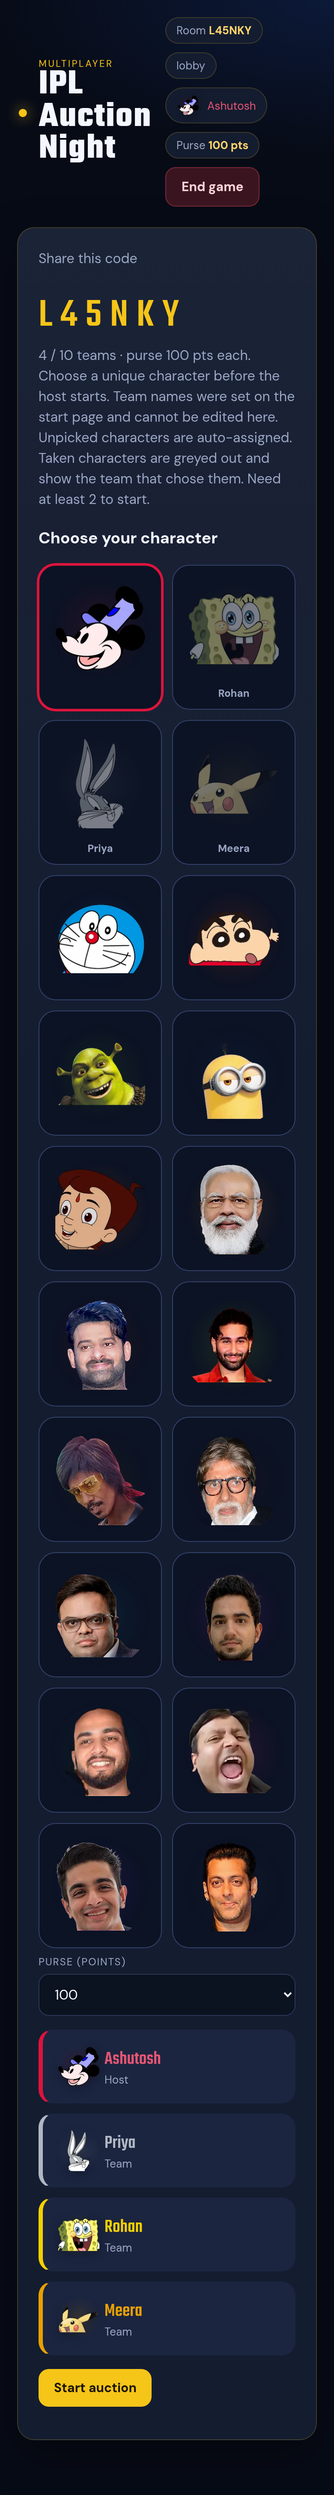
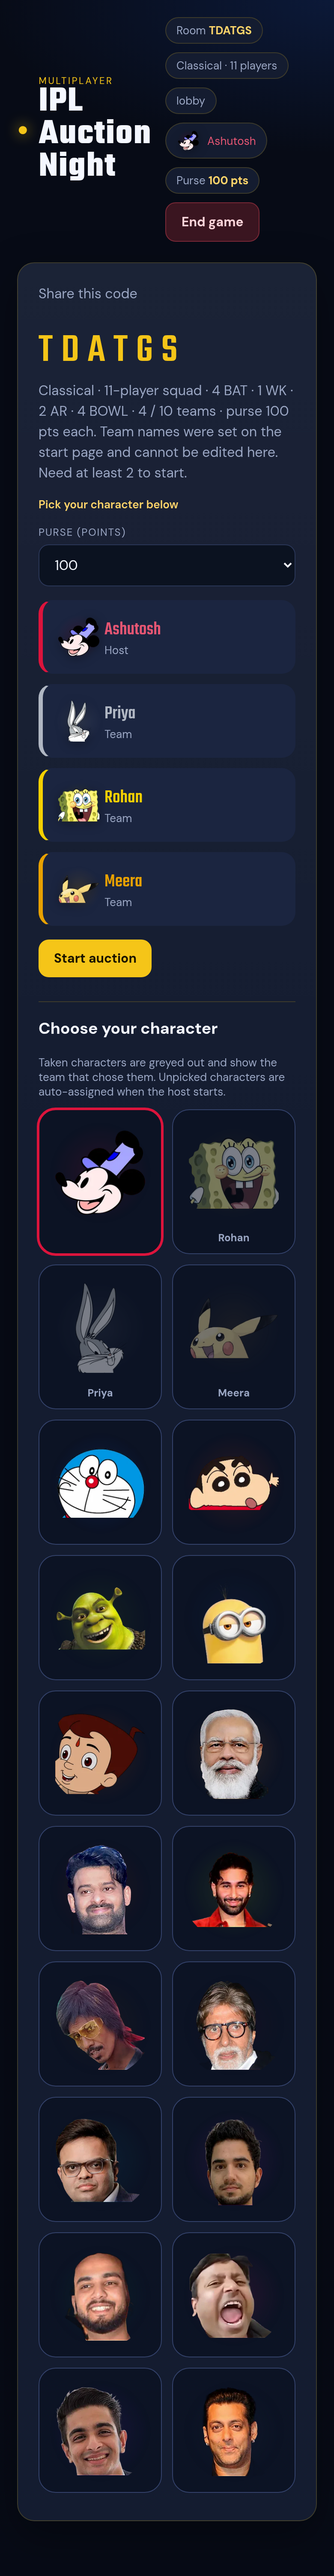
Move the lobby character picker below the players list and start button.
A short "Pick your character below" hint stays near the top so the
section is still easy to find on both desktop and phones.

diff --git a/public/app.js b/public/app.js
@@ -428,9 +428,8 @@ function lobbyView() {
     <section class="panel">
       <p class="lede">Share this code</p>
       <p class="room-code">${esc(state.code)}</p>
-      <p class="lede">${esc(modeInfo().summary)} · ${esc(modeInfo().compositionLabel)} · ${state.franchises.length} / ${state.maxPlayers} teams · purse ${money(state.purseLakhs)} each. Choose a unique character before the host starts. Team names were set on the start page and cannot be edited here. Unpicked characters are auto-assigned. Taken characters are greyed out and show the team that chose them. Need at least ${state.minPlayers} to start.</p>
-      <h3>Choose your character</h3>
-      <div class="character-picker logo-picker">${picker}</div>
+      <p class="lede">${esc(modeInfo().summary)} · ${esc(modeInfo().compositionLabel)} · ${state.franchises.length} / ${state.maxPlayers} teams · purse ${money(state.purseLakhs)} each. Team names were set on the start page and cannot be edited here. Need at least ${state.minPlayers} to start.</p>
+      <p class="hint character-nudge"><a href="#choose-character">Pick your character below</a></p>
       ${
         isHost
           ? `<div class="row row-2" style="max-width:420px">
@@ -453,6 +452,11 @@ function lobbyView() {
         ${isHost ? `<button class="btn" id="start" ${ready ? "" : "disabled"}>Start auction</button>` : `<p class="hint">Waiting for the host to start…</p>`}
       </div>
       <p class="error">${esc(lastError)}</p>
+      <div class="character-section" id="choose-character">
+        <h3>Choose your character</h3>
+        <p class="hint">Taken characters are greyed out and show the team that chose them. Unpicked characters are auto-assigned when the host starts.</p>
+        <div class="character-picker logo-picker">${picker}</div>
+      </div>
     </section>
   `;
 }

diff --git a/public/styles.css b/public/styles.css
@@ -248,6 +248,12 @@ th { color: var(--muted); font-size: 12px; letter-spacing: 0.06em; text-transfor
 .team-mark-wrap.sm { width: 28px; height: 28px; }
 .team-mark-wrap.lg { width: 56px; height: 56px; }
 
+.character-nudge { margin: -4px 0 16px; }
+.character-nudge a { color: var(--gold-2); text-decoration: none; font-weight: 600; font-size: 13px; }
+.character-nudge a:hover { text-decoration: underline; }
+.character-section { margin-top: 28px; padding-top: 18px; border-top: 1px solid var(--line); }
+.character-section h3 { margin-top: 0; }
+.character-section .hint { margin: 0 0 8px; }
 .character-picker, .logo-picker {
   display: grid;
   grid-template-columns: repeat(auto-fill, minmax(148px, 1fr));
